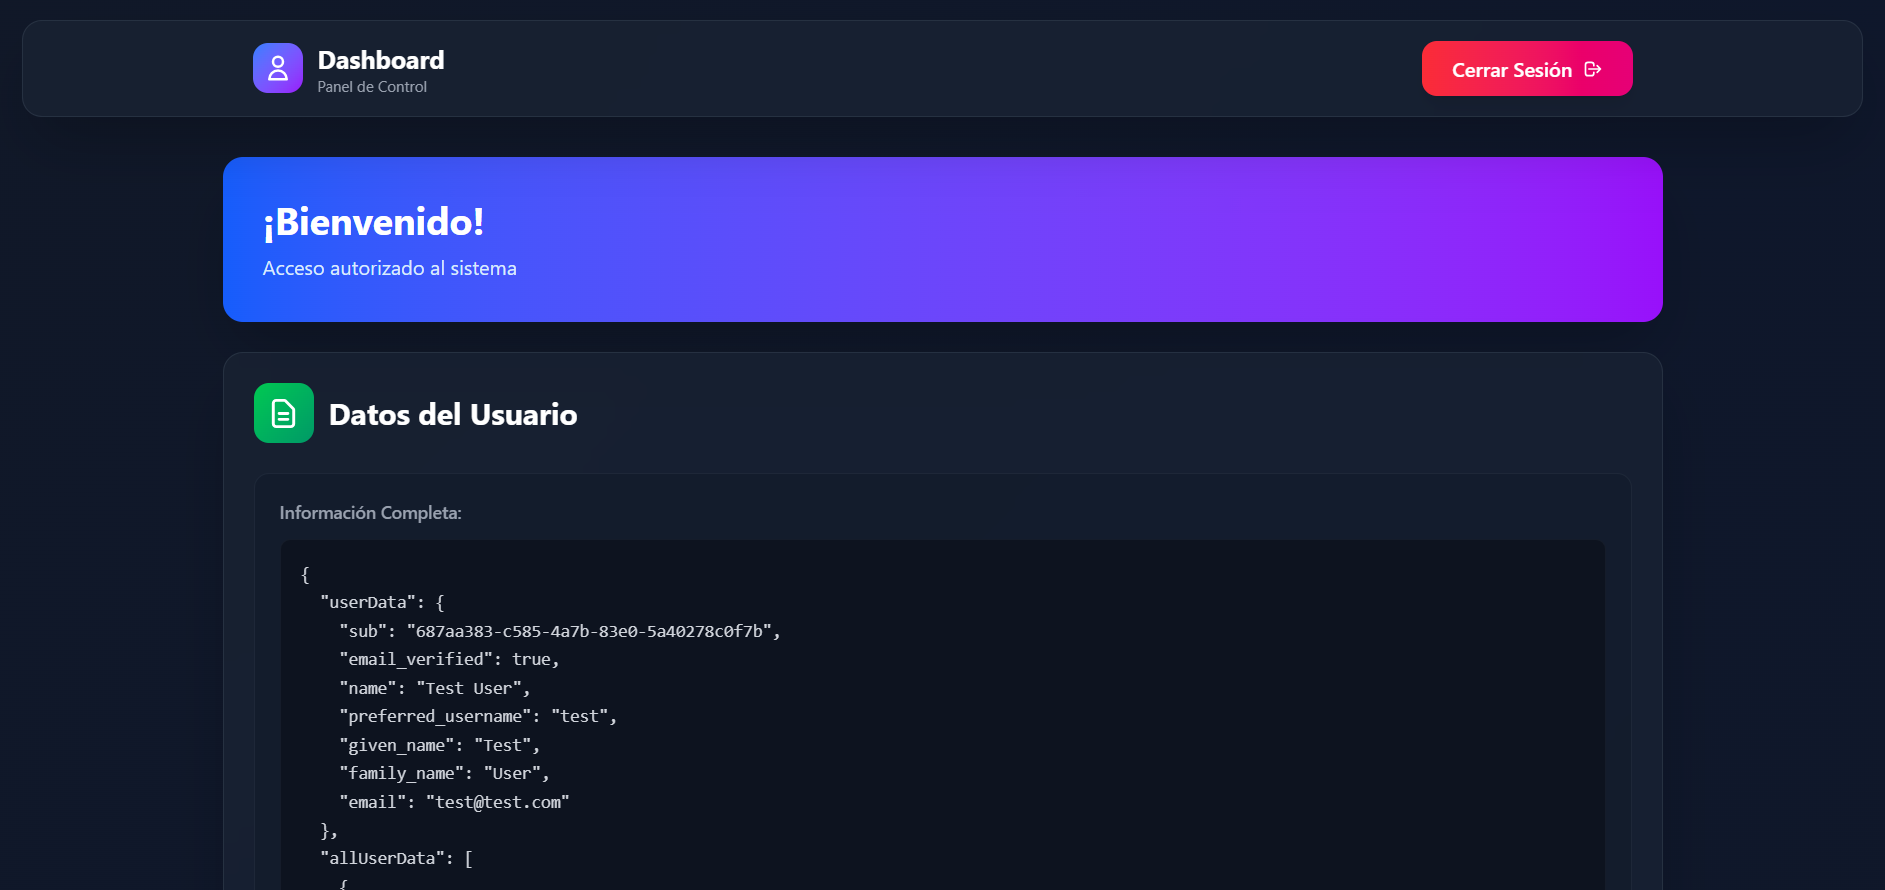
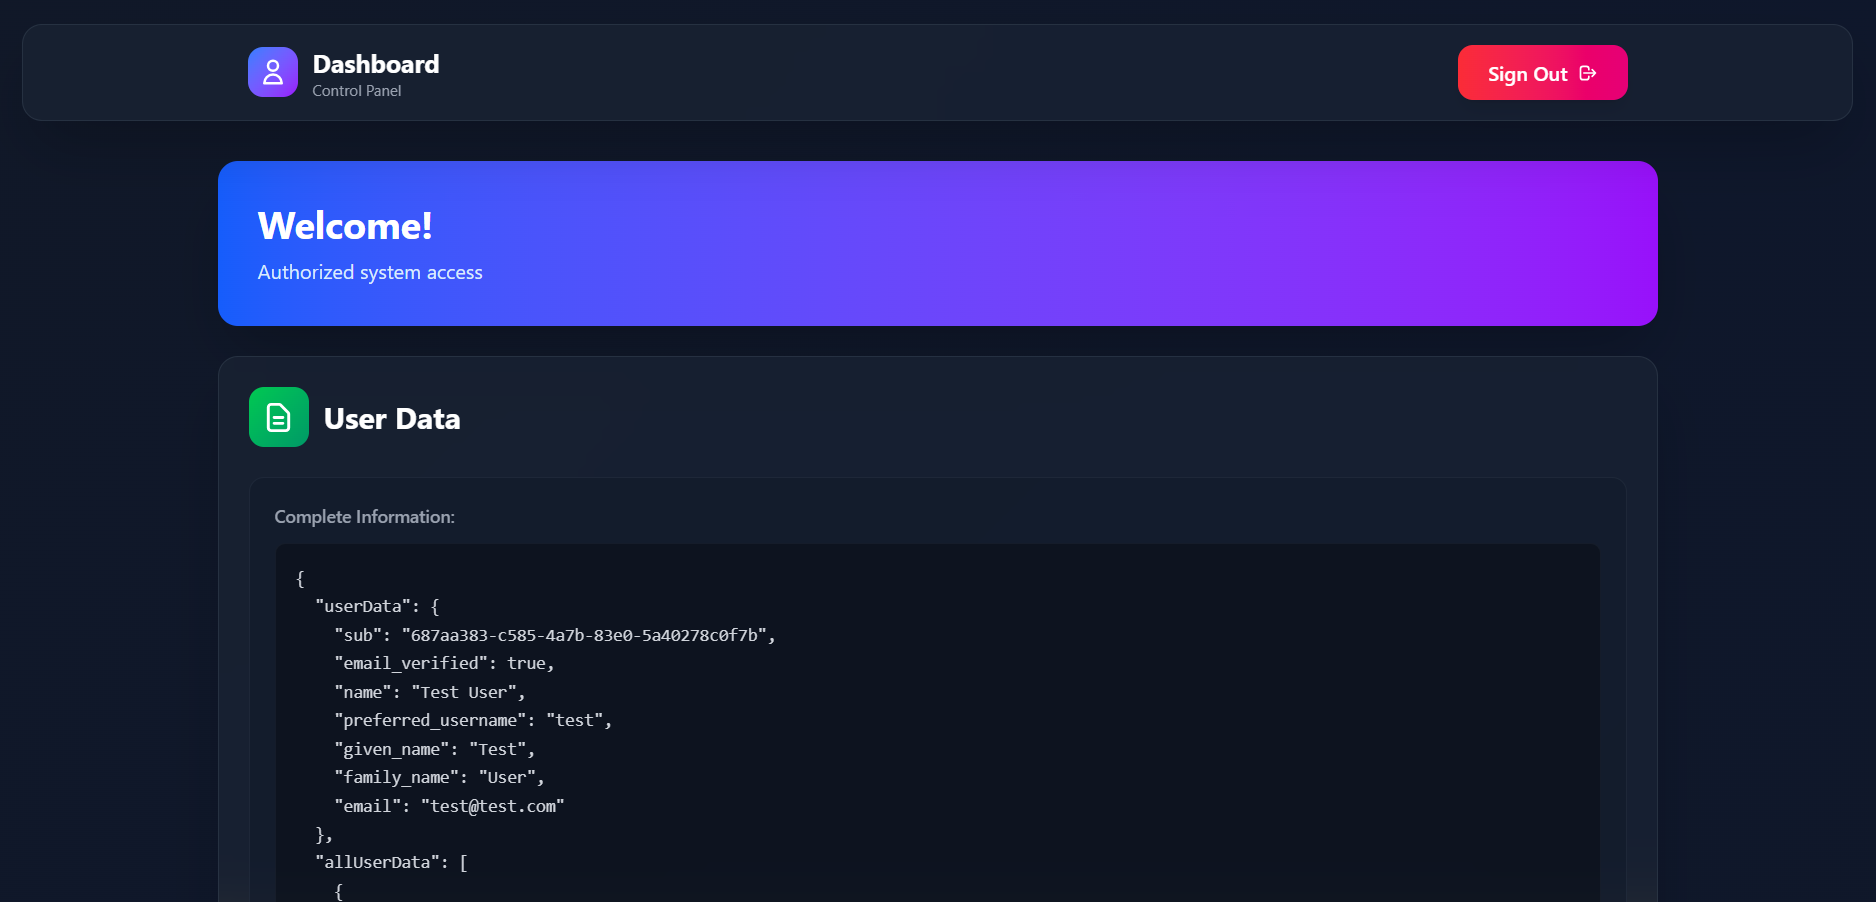
feat: update text for authentication and dashboard components to English
- src/app/components/callback/callback.component.html
- src/app/components/dashboard/dashboard.component.html
- src/app/components/login/login.component.html
- media/dashboard.png
- media/login.png

diff --git a/src/app/components/dashboard/dashboard.component.html b/src/app/components/dashboard/dashboard.component.html
@@ -19,7 +19,7 @@
         </div>
         <div>
           <h1 class="text-xl font-bold text-white">Dashboard</h1>
-          <p class="text-xs text-gray-400">Panel de Control</p>
+          <p class="text-xs text-gray-400">Control Panel</p>
         </div>
       </div>
       <button
@@ -27,7 +27,7 @@
         class="group relative cursor-pointer bg-linear-to-r from-red-500 to-pink-600 text-white py-2.5 px-6 rounded-xl hover:from-red-600 hover:to-pink-700 transition-all duration-300 shadow-lg hover:shadow-red-500/50 font-medium"
       >
         <span class="flex items-center space-x-2">
-          <span>Cerrar Sesión</span>
+          <span>Sign Out</span>
           <svg
             class="w-4 h-4 group-hover:translate-x-1 transition-transform"
             fill="none"
@@ -52,8 +52,8 @@
       <div class="space-y-6 animate-fade-in">
         <!-- Welcome Card -->
         <div class="bg-linear-to-r from-blue-600 to-purple-600 rounded-2xl p-8 shadow-2xl">
-          <h2 class="text-3xl font-bold text-white mb-2">¡Bienvenido!</h2>
-          <p class="text-blue-100">Acceso autorizado al sistema</p>
+          <h2 class="text-3xl font-bold text-white mb-2">Welcome!</h2>
+          <p class="text-blue-100">Authorized system access</p>
         </div>
 
         <!-- User Info Card -->
@@ -73,11 +73,11 @@
                 />
               </svg>
             </div>
-            <h2 class="text-2xl font-bold text-white">Datos del Usuario</h2>
+            <h2 class="text-2xl font-bold text-white">User Data</h2>
           </div>
 
           <div class="bg-gray-900/50 rounded-xl p-5 border border-gray-700/30">
-            <p class="text-gray-400 text-sm mb-3 font-medium">Información Completa:</p>
+            <p class="text-gray-400 text-sm mb-3 font-medium">Complete Information:</p>
             <pre
               class="text-sm text-gray-300 bg-black/30 p-4 rounded-lg overflow-auto border border-gray-700/20 font-mono leading-relaxed"
               >{{ userData | json }}</pre
@@ -102,7 +102,7 @@
                 />
               </svg>
             </div>
-            <h2 class="text-2xl font-bold text-white">Token de Acceso</h2>
+            <h2 class="text-2xl font-bold text-white">Access Token</h2>
           </div>
 
           <div class="bg-gray-900/50 rounded-xl p-5 border border-gray-700/30">

diff --git a/src/app/components/login/login.component.html b/src/app/components/login/login.component.html
@@ -28,8 +28,8 @@
 
     <!-- Title -->
     <div class="text-center mb-8">
-      <h1 class="text-3xl font-bold text-white mb-2">Bienvenido</h1>
-      <p class="text-gray-400">Inicia sesión con Keycloak</p>
+      <h1 class="text-3xl font-bold text-white mb-2">Welcome</h1>
+      <p class="text-gray-400">Sign in with Keycloak</p>
     </div>
 
     @if (isLoading) {
@@ -41,8 +41,8 @@
             class="absolute inset-0 border-4 border-t-blue-500 border-r-purple-500 rounded-full animate-spin"
           ></div>
         </div>
-        <p class="text-gray-300 text-lg font-medium mb-2">Redirigiendo a Keycloak...</p>
-        <p class="text-gray-500 text-sm">Espera un momento</p>
+        <p class="text-gray-300 text-lg font-medium mb-2">Redirecting to Keycloak...</p>
+        <p class="text-gray-500 text-sm">Please wait</p>
       </div>
     } @else {
       <!-- Login Button (not loading) -->
@@ -52,7 +52,7 @@
           class="group cursor-pointer w-full bg-linear-to-r from-blue-600 to-purple-600 text-white py-4 px-6 rounded-xl hover:from-blue-700 hover:to-purple-700 transition-all duration-300 shadow-lg hover:shadow-blue-500/50 font-semibold text-lg relative overflow-hidden"
         >
           <span class="relative z-10 flex items-center justify-center space-x-3">
-            <span>Iniciar Sesión</span>
+            <span>Sign In</span>
             <svg
               class="w-5 h-5 group-hover:translate-x-1 transition-transform"
               fill="none"
@@ -74,7 +74,7 @@
 
         <!-- Info text -->
         <div class="mt-6 text-center">
-          <p class="text-gray-500 text-sm">Autenticación segura mediante OIDC</p>
+          <p class="text-gray-500 text-sm">Secure authentication via OIDC</p>
         </div>
       </div>
     }
@@ -90,7 +90,7 @@
             d="M9 12l2 2 4-4m5.618-4.016A11.955 11.955 0 0112 2.944a11.955 11.955 0 01-8.618 3.04A12.02 12.02 0 003 9c0 5.591 3.824 10.29 9 11.622 5.176-1.332 9-6.03 9-11.622 0-1.042-.133-2.052-.382-3.016z"
           />
         </svg>
-        <span>Conexión segura y encriptada</span>
+        <span>Secure and encrypted connection</span>
       </div>
     </div>
   </div>

diff --git a/src/app/components/callback/callback.component.html b/src/app/components/callback/callback.component.html
@@ -39,8 +39,8 @@
 
     <!-- Title and description -->
     <div class="mb-6">
-      <h2 class="text-2xl font-bold text-white mb-3">Procesando Autenticación</h2>
-      <p class="text-gray-400">Verificando credenciales con Keycloak...</p>
+      <h2 class="text-2xl font-bold text-white mb-3">Processing Authentication</h2>
+      <p class="text-gray-400">Verifying credentials with Keycloak...</p>
     </div>
 
     <!-- Loading dots -->
@@ -63,21 +63,21 @@
     <div class="space-y-3 text-left bg-gray-900/30 rounded-xl p-4 border border-gray-700/30">
       <div class="flex items-center space-x-3">
         <div class="w-2 h-2 bg-green-500 rounded-full animate-pulse"></div>
-        <span class="text-gray-400 text-sm">Validando token de acceso</span>
+        <span class="text-gray-400 text-sm">Validating access token</span>
       </div>
       <div class="flex items-center space-x-3">
         <div
           class="w-2 h-2 bg-blue-500 rounded-full animate-pulse"
           style="animation-delay: 200ms"
         ></div>
-        <span class="text-gray-400 text-sm">Obteniendo datos del usuario</span>
+        <span class="text-gray-400 text-sm">Fetching user data</span>
       </div>
       <div class="flex items-center space-x-3">
         <div
           class="w-2 h-2 bg-purple-500 rounded-full animate-pulse"
           style="animation-delay: 400ms"
         ></div>
-        <span class="text-gray-400 text-sm">Configurando sesión</span>
+        <span class="text-gray-400 text-sm">Setting up session</span>
       </div>
     </div>
 
@@ -92,7 +92,7 @@
             d="M9 12l2 2 4-4m5.618-4.016A11.955 11.955 0 0112 2.944a11.955 11.955 0 01-8.618 3.04A12.02 12.02 0 003 9c0 5.591 3.824 10.29 9 11.622 5.176-1.332 9-6.03 9-11.622 0-1.042-.133-2.052-.382-3.016z"
           />
         </svg>
-        <span>Autenticación segura OIDC</span>
+        <span>Secure OIDC Authentication</span>
       </div>
     </div>
   </div>
